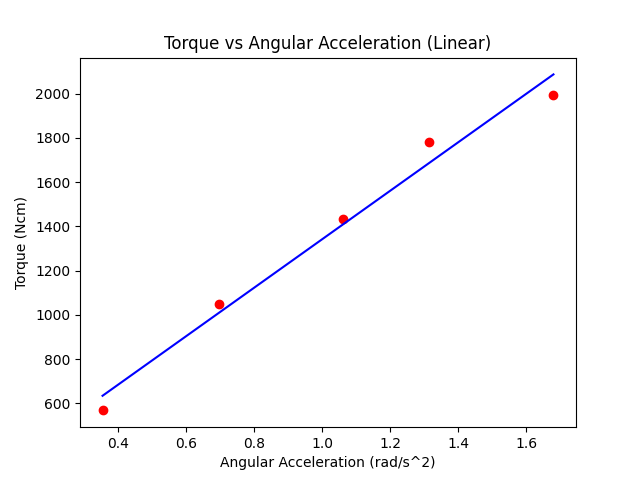
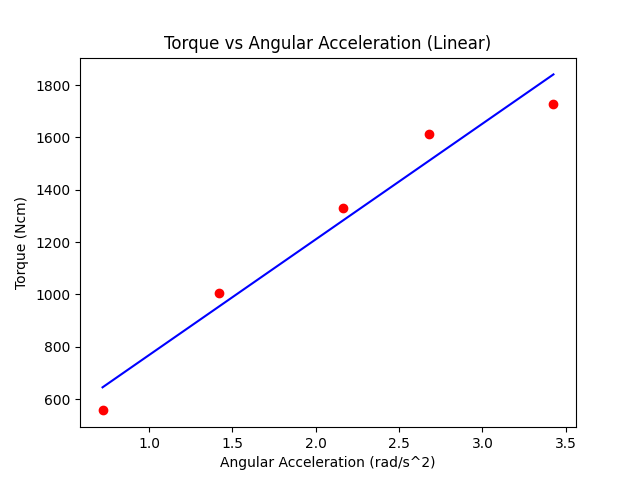
updated graphs again

diff --git a/main.py b/main.py
@@ -18,12 +18,17 @@ masses_pully = [50, 100, 150, 200, 250,
 def plot_torque_vs_angular_acceleration():
     # Data Frame
     data_frame = pd.read_csv('data/Lab13Export.csv', sep=',', header=0)
-    # Average Angular Accelerations
+    # Average Angular Accelerations (FOR PULLEY)
     averaged_angular_acceleration_values = get_averaged_angular_acceleration_values(data_frame)
-    # Calculate Mass Accelerations
-    mass_acceleration_lists = get_mass_accelerations(averaged_angular_acceleration_values)
+    # Calculate Mass Accelerations (FOR STRING (LINEAR ACCELERATION))
+    linear_accelerations = get_mass_accelerations(averaged_angular_acceleration_values)
+    # Converted angular_accelerations to axel (to use at end)
+    angular_accelerations_axel = []
+    for linear_acceleration in linear_accelerations:
+                # Convert Linear Acceleration to Angular Acceleration of Platform Axle (Platform Angular Acceleration)
+        angular_accelerations_axel.append(linear_acceleration/radius_axle_cm)
     # Get Tension Forces
-    tension_forces = get_tension_forces(mass_acceleration_lists)
+    tension_forces = get_tension_forces(linear_accelerations)
     # Torque = Tension Force * Radius Axle
     torque_list = get_torque_list(tension_forces)
 
@@ -31,10 +36,10 @@ def plot_torque_vs_angular_acceleration():
     # Plot torque_list vs averaged_angular_acceleration_values
 
     for i in range(0, len(torque_list), 5):
-        plt.plot(averaged_angular_acceleration_values[i:i+5], torque_list[i:i+5], 'ro')
+        plt.plot(angular_accelerations_axel[i:i+5], torque_list[i:i+5], 'ro')
         # Plot Best Fit Line
-        slope, intercept, r_value, p_value, std_err = linregress(averaged_angular_acceleration_values[i:i+5], torque_list[i:i+5])
-        x = np.linspace(min(averaged_angular_acceleration_values[i:i+5]), max(averaged_angular_acceleration_values[i:i+5]), 100)
+        slope, intercept, r_value, p_value, std_err = linregress(angular_accelerations_axel[i:i+5], torque_list[i:i+5])
+        x = np.linspace(min(angular_accelerations_axel[i:i+5]), max(angular_accelerations_axel[i:i+5]), 100)
         y = slope * x + intercept
         plt.plot(x, y, 'b')
         # Print equation of line
@@ -48,12 +53,12 @@ def plot_torque_vs_angular_acceleration():
     
     # For last two graphs, plot same thing, but with second degree polynomial fit
     for i in range(10, len(torque_list), 5):
-        plt.plot(averaged_angular_acceleration_values[i:i+5], torque_list[i:i+5], 'ro')
+        plt.plot(angular_accelerations_axel[i:i+5], torque_list[i:i+5], 'ro')
         # Plot polynomial fit
         # Get polynomial coefficients and calculate r^2 value for polynomial   
-        coeffs = np.polyfit(averaged_angular_acceleration_values[i:i+5], torque_list[i:i+5], 2)
+        coeffs = np.polyfit(angular_accelerations_axel[i:i+5], torque_list[i:i+5], 2)
         p = np.poly1d(coeffs)
-        xp = np.linspace(min(averaged_angular_acceleration_values[i:i+5]), max(averaged_angular_acceleration_values[i:i+5]), 100)
+        xp = np.linspace(min(angular_accelerations_axel[i:i+5]), max(angular_accelerations_axel[i:i+5]), 100)
         plt.plot(xp, p(xp), 'b')
         # Calculate r^2 value of polyfit
         r_value = np.corrcoef(xp, p(xp))[0,1]
@@ -90,8 +95,7 @@ def get_mass_accelerations(averaged_angular_acceleration_values):
     for acceleration in averaged_angular_acceleration_values:
         # Get Linear Acceleartion (String)
         linear_acceleration = acceleration * wheel_radius_cm
-        # Convert Linear Acceleration to Angular Acceleration of Platform Axle (Platform Angular Acceleration)
-        accelerations_list.append(linear_acceleration/radius_axle_cm)
+        accelerations_list.append(linear_acceleration)
     print(accelerations_list)
     return accelerations_list
 
@@ -105,8 +109,6 @@ def get_slope(arr_x_y):
 
 # Average Angular Accelerations
 def get_averaged_angular_acceleration_values(data_frame):
-
-
 
     # Get Position Data to take Slope of Line Through for Each Run
     position_data_per_run = [] # Format: [[time_values, velocity_values], [time_values, velocity_values], ...]
